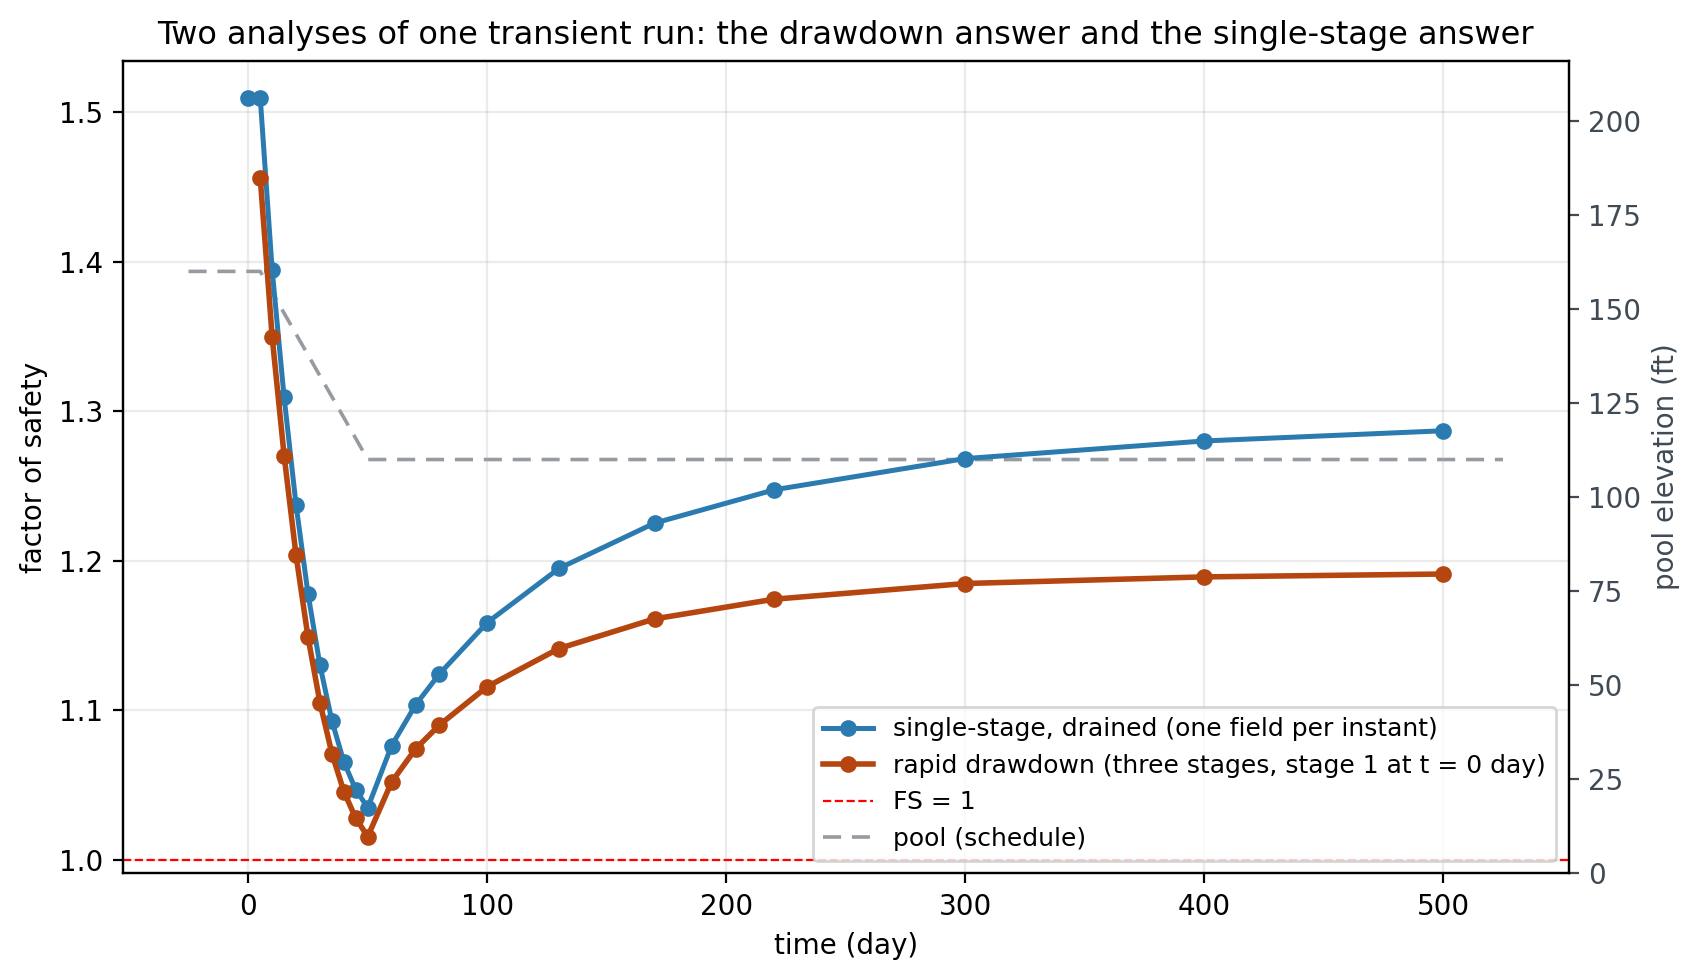
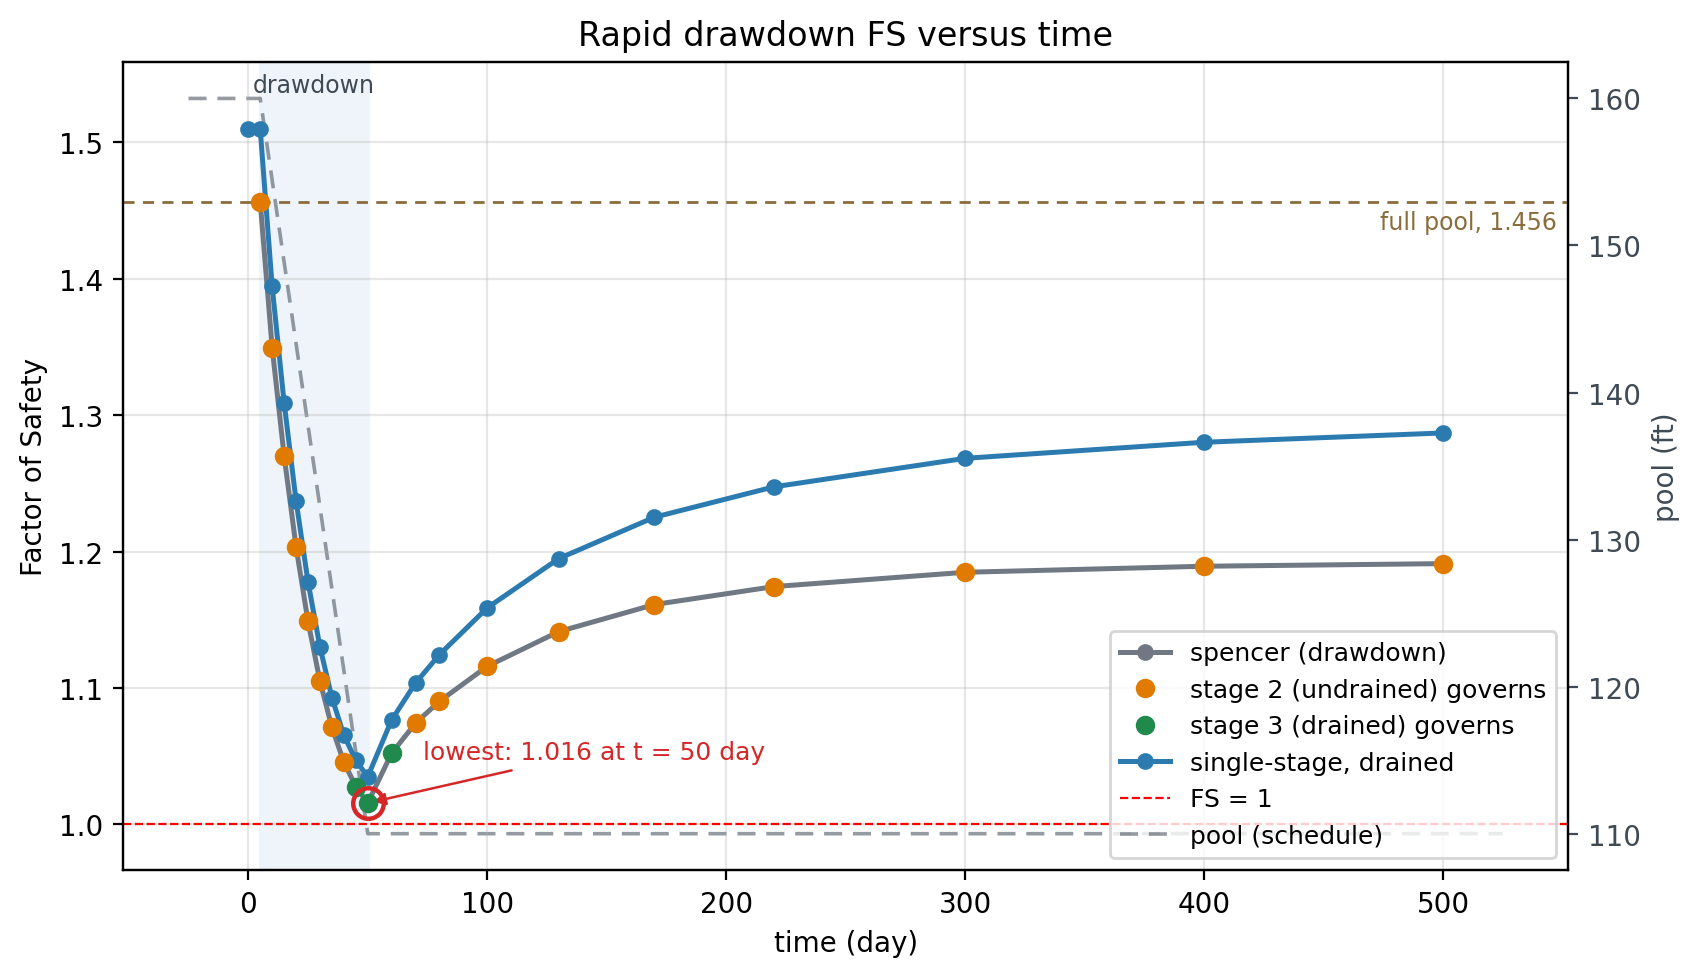
plot(fs_vs_time): a compare= curve on the same axes; COMBO-3's comparison is Studio's rapid figure plus the drained curve; sweep results cached for redraws
Claude-Session: https://claude.ai/code/session_01XjjT2aBxw8gY7EFdpoUcpj

diff --git a/tools/make_tutorial_figures.py b/tools/make_tutorial_figures.py
@@ -39,6 +39,7 @@ import copy
 import importlib.util
 import io
 import math
+import glob
 import os
 import sys
 
@@ -58,6 +59,31 @@ from xslope.plot import (declared_unit_labels,                       # noqa: E40
                          plot_circular_search_results)
 
 OUT_DIR = os.path.join(REPO_ROOT, "docs", "tutorials", "images")
+
+
+#: Sweep results are cached on disk so a redraw (a color, a label, a layout)
+#: does not re-solve two 21-instant searches. Keyed by the model's files' mtimes
+#: plus a caller-supplied tag; lives outside the tree the docs read.
+_SWEEP_CACHE = os.path.join(REPO_ROOT, ".figure_cache")
+
+
+def _sweep_cached(tag, model_path, compute, **kw):
+    import hashlib
+    import pickle
+    base = os.path.splitext(model_path)[0]
+    stamp = "|".join("%s:%s" % (os.path.basename(f), int(os.path.getmtime(f)))
+                     for f in sorted(glob.glob(base + "*")) if os.path.isfile(f))
+    key = hashlib.sha1(("%s|%s|%s" % (tag, stamp, sorted(kw.items()))).encode()).hexdigest()[:16]
+    path = os.path.join(_SWEEP_CACHE, "%s_%s.pkl" % (tag, key))
+    if os.path.exists(path):
+        with open(path, "rb") as fh:
+            print("   cache       %s read from %s" % (tag, os.path.relpath(path, REPO_ROOT)))
+            return pickle.load(fh)
+    res = compute()
+    os.makedirs(_SWEEP_CACHE, exist_ok=True)
+    with open(path, "wb") as fh:
+        pickle.dump(res, fh)
+    return res
 
 #: The tutorial's model is the sample's model — one file, two pages (the tutorial
 #: builds it, ``docs/lem/samples.md`` catalogues it). Nothing is copied.
@@ -6581,63 +6607,13 @@ COMBO03R_SLICES = 40
 
 
 def _combo03r_compare(model, rapid_res, plain_res):
-    """Both sweeps of one march on one axes: the drawdown answer at every instant
-    and the single-stage answer at the same instants.
-
-    The two curves are the page's measurement, and a measurement of a gap has to be
-    read on one pair of axes — two figures at two y-scales would leave the reader
-    subtracting labels. The pool the two share is drawn behind them, as it is on
-    the Studio figure, so a crossing can be placed against the drawdown that
-    causes it.
-    """
-    import numpy as np
-
-    _u = declared_unit_labels(model)
-    ts = model["tseep"]
-
-    def _pts(res):
-        g = res["df"]
-        g = g.loc[g["success"]].sort_values("value")
-        return [float(v) for v in g["value"]], [float(v) for v in g["fs"]]
-
-    rt, rfs = _pts(rapid_res)
-    pt, pfs = _pts(plain_res)
-
-    fig, ax = plt.subplots(figsize=(8.6, 5.0))
-    ax.plot(pt, pfs, "-o", color="#2b7bb0", lw=1.8, ms=5, zorder=3,
-            label="single-stage, drained (one field per instant)")
-    ax.plot(rt, rfs, "-o", color="#b5460f", lw=2.0, ms=5, zorder=4,
-            label="rapid drawdown (three stages, stage 1 at t = %g %s)"
-                  % (float(ts["stage_1"]), _u["time"]))
-    ax.axhline(1.0, color="r", ls="--", lw=0.8, zorder=2, label="FS = 1")
-    ax.set_xlabel("time (%s)" % _u["time"])
-    ax.set_ylabel("factor of safety")
-    ax.grid(alpha=0.25)
-    ax.set_title("Two analyses of one transient run: the drawdown answer and "
-                 "the single-stage answer", fontsize=11.5)
-
-    pool = ax.twinx()
-    tt = [float(t) for t in ts["times"]]
-    vv = [float(v) for v in ts["series"]["pool"]]
-    lo, hi = ax.get_xlim()
-    if lo < tt[0]:
-        tt, vv = [lo] + tt, [vv[0]] + vv
-    if hi > tt[-1]:
-        tt, vv = tt + [hi], vv + [vv[-1]]
-    pool.plot(tt, vv, color="#3f4a55", lw=1.3, ls=(0, (5, 3)), alpha=0.55,
-              zorder=0, label="pool (schedule)")
-    pool.set_ylabel("pool elevation (%s)" % _u["length"], color="#3f4a55")
-    pool.tick_params(axis="y", colors="#3f4a55")
-    pool.set_ylim(0.0, 1.35 * float(np.max(vv)))
-    pool.set_zorder(ax.get_zorder() - 1)
-    ax.patch.set_visible(False)
-
-    h1, l1 = ax.get_legend_handles_labels()
-    h2, l2 = pool.get_legend_handles_labels()
-    # Lower right: both curves rise to the right, so the top of the frame is where
-    # the single-stage line ends up and a legend there covers the measurement.
-    ax.legend(h1 + h2, l1 + l2, fontsize=9, loc="lower right")
-    fig.tight_layout()
+    """Both sweeps of one transient run on one axes: Studio's own FS vs time
+    figure of the drawdown sweep, with the single-stage sweep of the same
+    instants drawn through it -- same pool axis, drawdown band and full-pool
+    line, so the gap between the two answers is read on one scale."""
+    from xslope.plot import plot_fs_vs_time
+    plot_fs_vs_time(rapid_res, slope_data=model, compare=plain_res,
+                    compare_label="single-stage, drained")
 
 
 def combo03_rapid():
@@ -6697,10 +6673,13 @@ def combo03_rapid():
     # Stage 1 is read at the first frame, so that frame is the state the others
     # fall from and is not swept -- Studio dims it when Rapid drawdown is ticked.
     _s1 = float((model.get("tseep") or {}).get("stage_1") or 0.0)
-    ok, rapid_res = fs_vs_time(model, solution, methods=(COMBO03R_METHOD,),
-                               times=[t for t in solution["times"] if t > _s1],
-                               num_slices=COMBO03R_SLICES, rapid=True,
-                               search_opts=COMBO03_SEED, print_table=False)
+    ok, rapid_res = _sweep_cached(
+        "combo03_rapid", COMBO03R,
+        lambda: fs_vs_time(model, solution, methods=(COMBO03R_METHOD,),
+                           times=[t for t in solution["times"] if t > _s1],
+                           num_slices=COMBO03R_SLICES, rapid=True,
+                           search_opts=COMBO03_SEED, print_table=False),
+        method=COMBO03R_METHOD, slices=COMBO03R_SLICES, seed=str(COMBO03_SEED))
     if not ok:
         raise RuntimeError(rapid_res)
     print("   drawdown    %d instants · %d failed · lowest %.4f at t = %g %s · "
@@ -6719,9 +6698,12 @@ def combo03_rapid():
 
     # ---- every instant as an ordinary single-stage analysis ----------------- #
     t0 = _time.time()
-    ok, plain_res = fs_vs_time(model, solution, methods=(COMBO03R_METHOD,),
-                               num_slices=COMBO03R_SLICES, search=True,
-                               search_opts=COMBO03_SEED, print_table=False)
+    ok, plain_res = _sweep_cached(
+        "combo03_plain", COMBO03R,
+        lambda: fs_vs_time(model, solution, methods=(COMBO03R_METHOD,),
+                           num_slices=COMBO03R_SLICES, search=True,
+                           search_opts=COMBO03_SEED, print_table=False),
+        method=COMBO03R_METHOD, slices=COMBO03R_SLICES, seed=str(COMBO03_SEED))
     if not ok:
         raise RuntimeError(plain_res)
     print("   single      %d instants · %d failed · lowest %.4f at t = %g %s · "

diff --git a/xslope/plot.py b/xslope/plot.py
@@ -5272,7 +5272,8 @@ def _drawdown_interval(ts):
 
 
 def plot_fs_vs_time(result, slope_data=None, figsize=(8.6, 5.0), save_png=False,
-                    dpi=300, fig=None, style=None):
+                    dpi=300, fig=None, style=None, compare=None,
+                    compare_label=None):
     """Plot an :func:`xslope.sensitivity.fs_vs_time` curve: the factor of safety at
     every evaluated instant of a transient seepage march.
 
@@ -5388,6 +5389,19 @@ def plot_fs_vs_time(result, slope_data=None, figsize=(8.6, 5.0), save_png=False,
                     color=_STAGE_COLORS[stage], ms=6, zorder=5, label=name)
     if n_failed:
         ax.plot([], [], ' ', label=f"{n_failed} instant(s) produced no result")
+
+    # A second sweep of the same instants, drawn on the same axes so the distance
+    # between the two answers is read against one scale, one schedule and one
+    # drawdown band -- the rapid drawdown curve against the single-stage curve of
+    # the same transient run is the case. Only the main result is ringed.
+    if compare is not None and isinstance(compare, dict) and 'df' in compare:
+        cdf = compare['df']
+        cpts = cdf.loc[cdf['success'].astype(bool)].sort_values('value')
+        if len(cpts):
+            ax.plot(cpts['value'], cpts['fs'], '-o', color='#2b7bb0', lw=1.8,
+                    ms=5, zorder=3,
+                    label=compare_label or ("single-stage" if rapid
+                                            else "comparison"))
 
     crit_t = result.get('critical_time') if isinstance(result, dict) else None
     crit_fs = result.get('min_fs') if isinstance(result, dict) else None

diff --git a/docs/tutorials/combo03_fs_vs_time.md b/docs/tutorials/combo03_fs_vs_time.md
@@ -783,8 +783,8 @@ because a run of this length leaves the core part drained.
 
 <!-- test: file=files/xslope_johnson_fs_time.xlsx, type=fs_vs_time, method=spencer, march=file, num_slices=40, times=0;50;500, expected=1.5097;1.0350;1.2870, tolerance=0.005, benchmark=COMBO-3-single -->
 
-Studio's result tab holds one curve at a time, so the figure below plots both
-results on one pair of axes:
+Studio's result tab holds one curve at a time, so the figure below adds the
+single-stage curve (blue) to the rapid drawdown figure above, on the same axes:
 
 ![The rapid drawdown curve and the single-stage curve of the same transient run](images/combo03_rapid_compare.png){width=1000}
 
